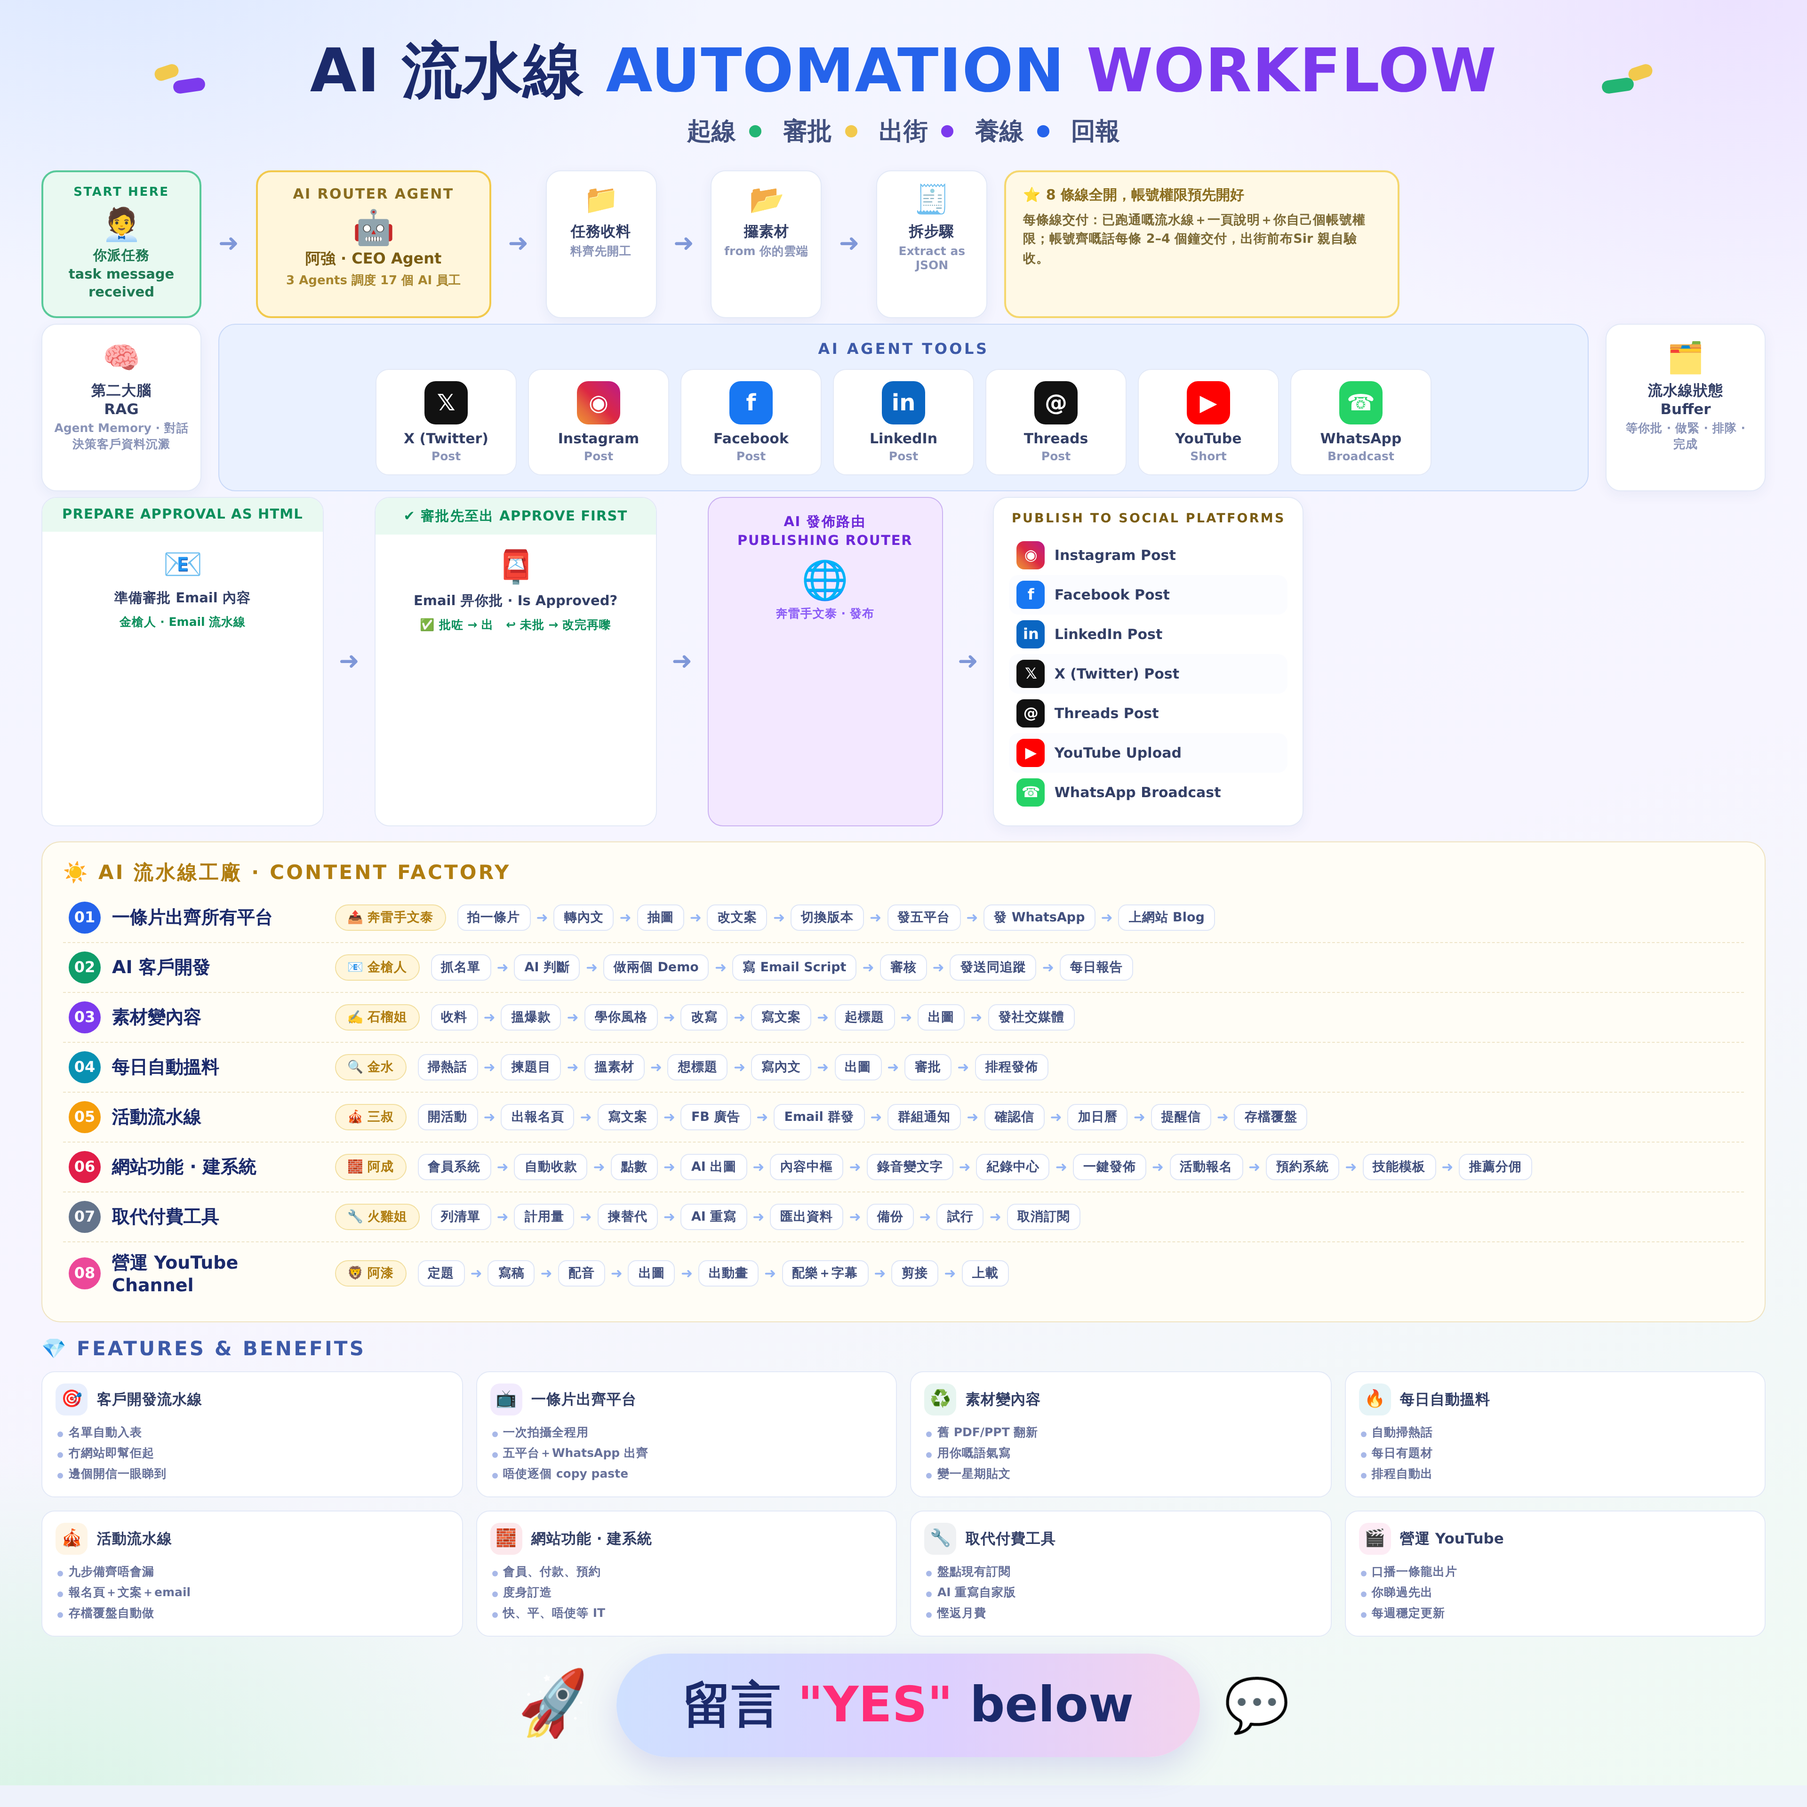
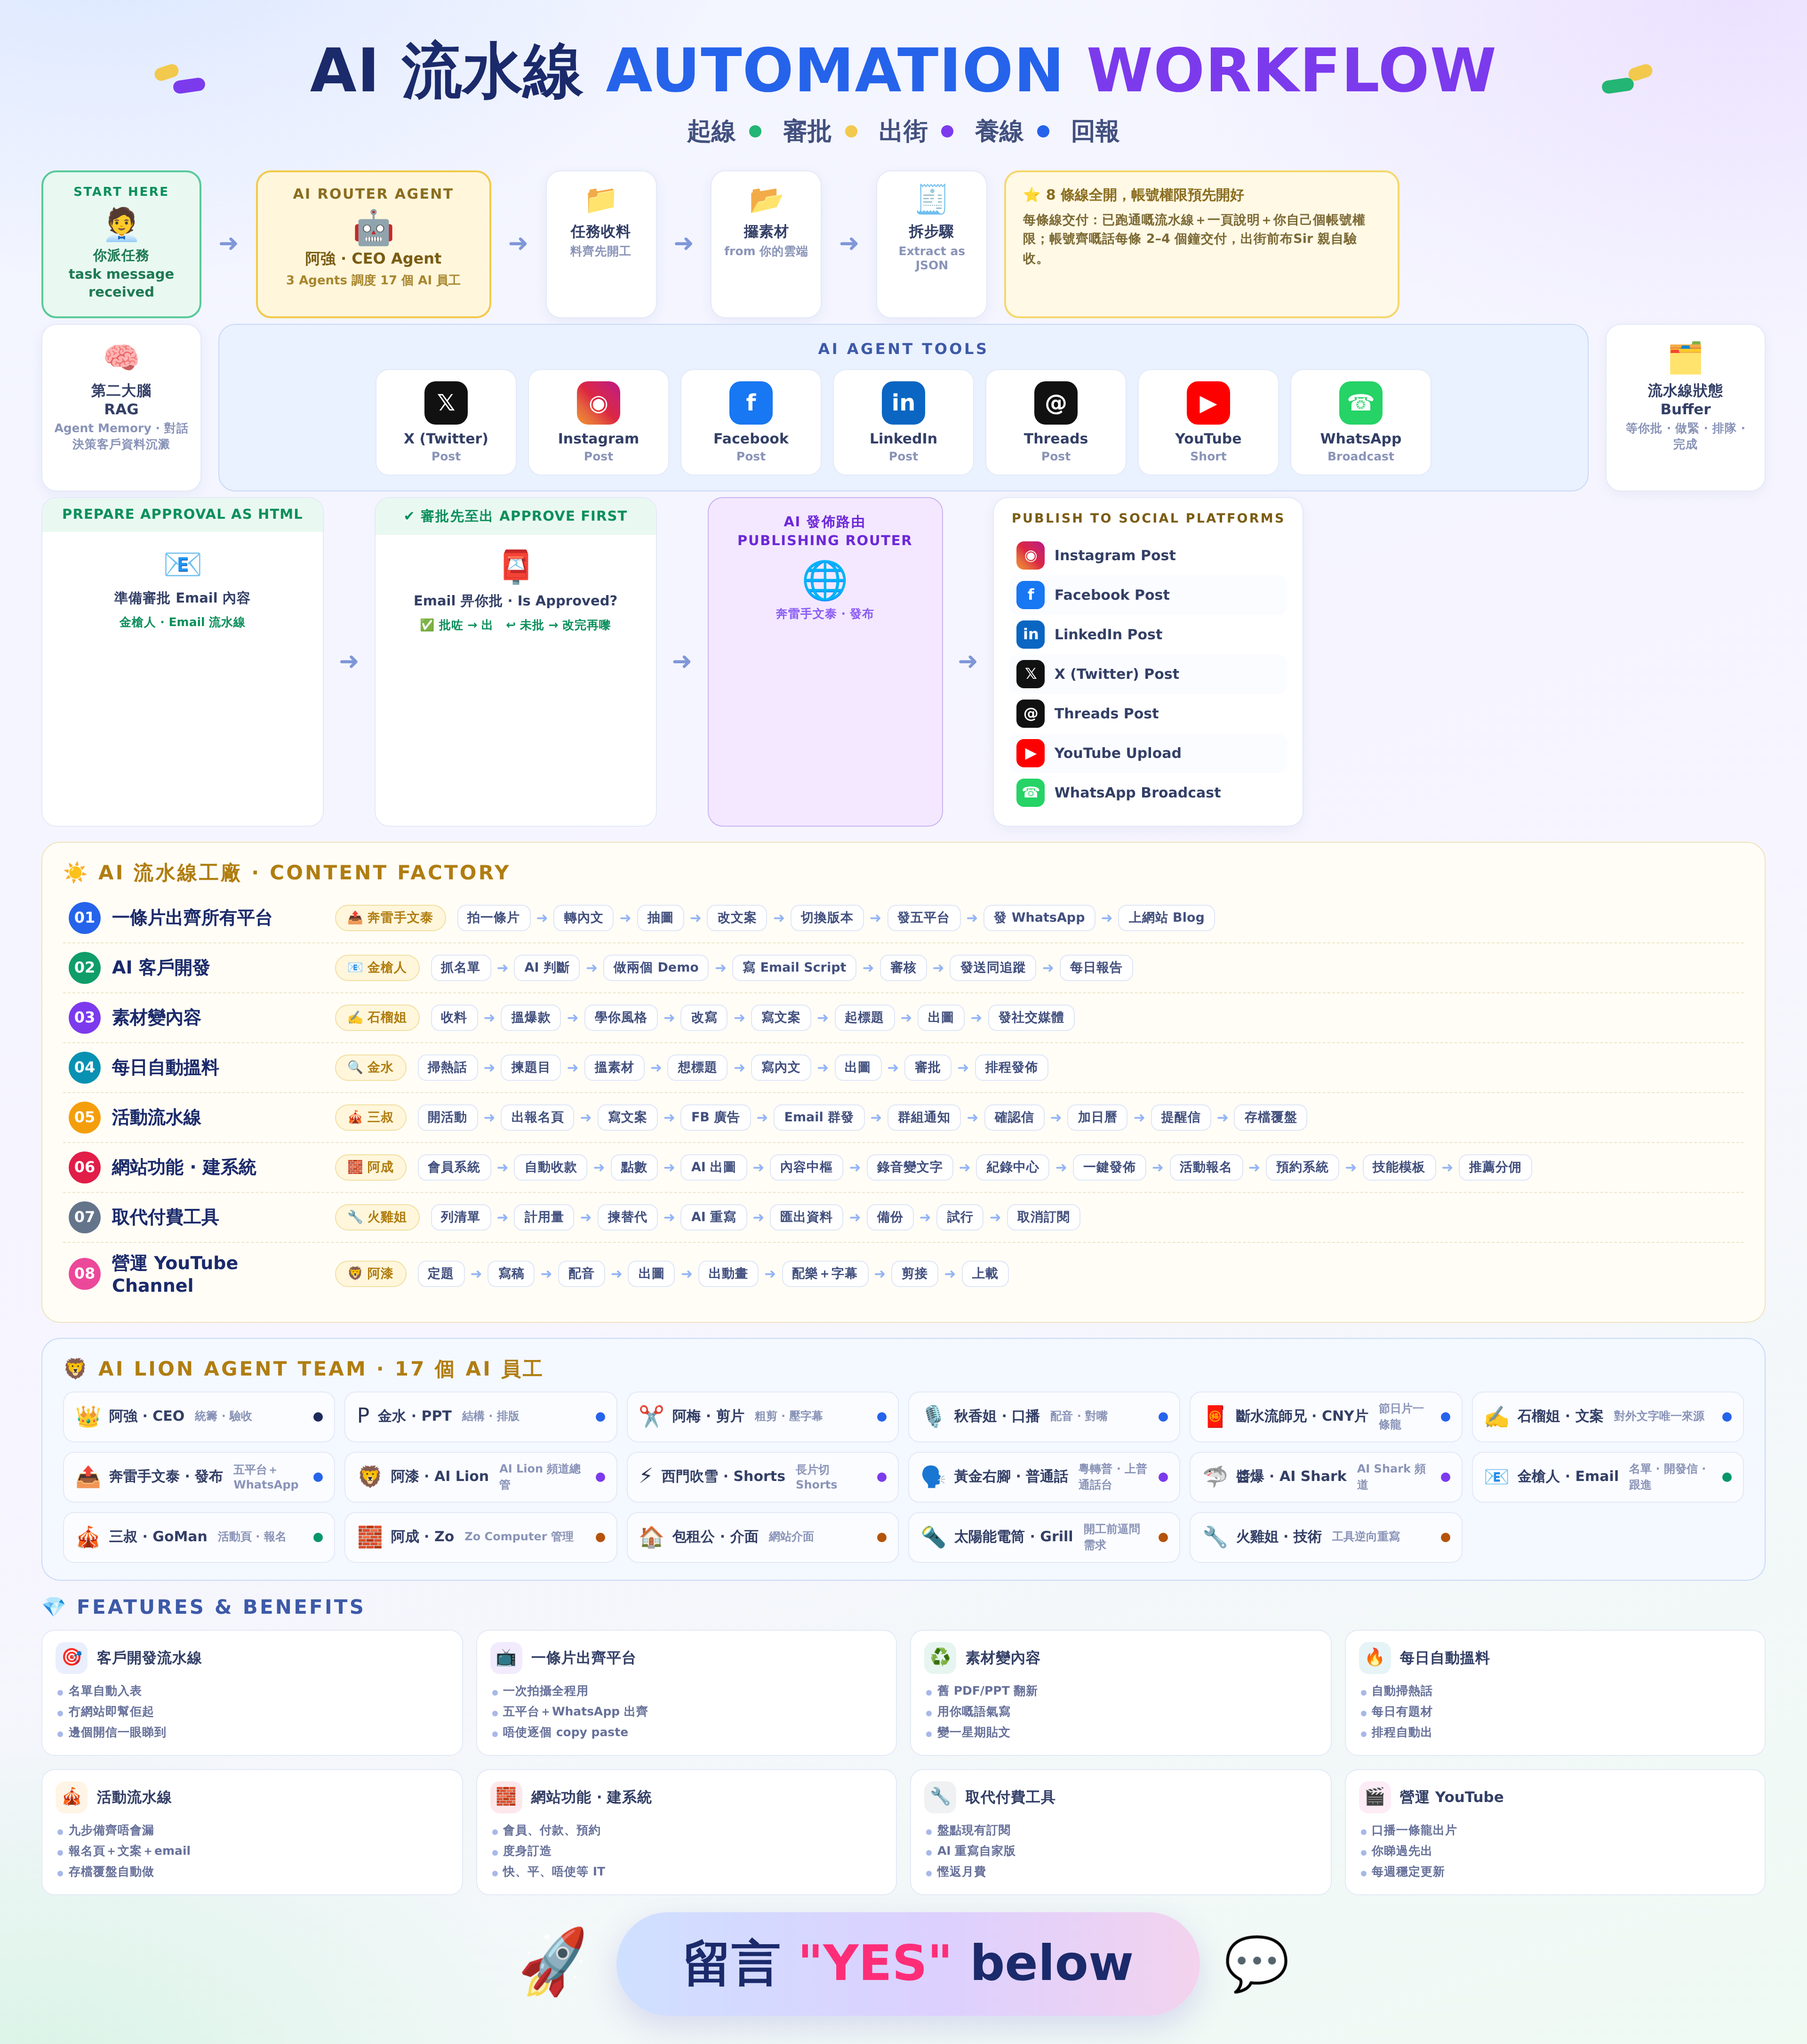
workflow-board：加 AI LION AGENT TEAM 全員板（17 員工＋職能＋部門色點）

diff --git a/flow-boards/workflow-board.html b/flow-boards/workflow-board.html
@@ -60,6 +60,11 @@ h1 .a{color:var(--navy)}h1 .b{color:var(--blue)}h1 .c{color:var(--purple)}
 .tcard{background:#fff;border:1.6px solid var(--line);border-radius:14px;width:150px;padding:12px 8px;text-align:center}
 .tcard .bi{width:46px;height:46px;border-radius:12px;margin:0 auto 6px;display:flex;align-items:center;justify-content:center;color:#fff;font-size:24px;font-weight:900}
 .tcard .t{font-size:15px;font-weight:900;color:#333f66}
+.tgrid{display:grid;grid-template-columns:repeat(6,1fr);gap:10px;margin-top:10px}
+.emp{display:flex;align-items:center;gap:9px;background:#fbfcff;border:1.4px solid var(--line);border-radius:12px;padding:9px 12px}
+.emp .em{font-size:22px}.emp .n{font-size:15px;font-weight:900;color:#333f66;white-space:nowrap}
+.emp .r{font-size:12px;font-weight:700;color:#8a94b8;margin-left:2px}
+.emp .d{width:10px;height:10px;border-radius:50%;margin-left:auto;flex:0 0 auto}
 .tcard .s{font-size:12.5px;font-weight:700;color:#8a94b8;margin-top:2px}
 .memcard{width:170px;text-align:center;padding:16px 12px;flex:0 0 auto}
 .memcard .ic{font-size:32px}
@@ -209,6 +214,12 @@ h1 .a{color:var(--navy)}h1 .b{color:var(--blue)}h1 .c{color:var(--purple)}
     <div id="lanes" style="margin-top:8px"></div>
   </div>
 
+  <!-- ══ team ══ -->
+  <div class="factory" style="background:#f4f8ff;border-color:#c9d9f8">
+    <div class="h">🦁 AI LION AGENT TEAM · 17 個 AI 員工</div>
+    <div class="tgrid" id="team"></div>
+  </div>
+
   <!-- ══ features ══ -->
   <div class="features">
     <div class="h">💎 FEATURES &amp; BENEFITS</div>
@@ -276,6 +287,16 @@ const FEATS = [
 document.getElementById("feats").innerHTML = FEATS.map(([c,e,t,pts])=>{
   return `<div class="fcard"><div class="fh"><span class="fi" style="background:${c}1a;color:${c}">${e}</span>${t}</div><ul>${pts.map(p=>`<li>${p}</li>`).join("")}</ul></div>`;
 }).join("");
+const TEAM=[
+ ["👑","阿強 · CEO","統籌 · 驗收","#1e2a5a"],["P","金水 · PPT","結構 · 排版","#2563eb"],["✂","阿梅 · 剪片","粗剪 · 壓字幕","#2563eb"],
+ ["🎙","秋香姐 · 口播","配音 · 對嘴","#2563eb"],["🧧","斷水流師兄 · CNY片","節日片一條龍","#2563eb"],["✍","石榴姐 · 文案","對外文字唯一來源","#2563eb"],
+ ["📤","奔雷手文泰 · 發布","五平台＋WhatsApp","#2563eb"],["🦁","阿漆 · AI Lion","AI Lion 頻道總管","#7c3aed"],["⚡","西門吹雪 · Shorts","長片切 Shorts","#7c3aed"],
+ ["🗣","黃金右腳 · 普通話","粵轉普 · 上普通話台","#7c3aed"],["🦈","醬爆 · AI Shark","AI Shark 頻道","#7c3aed"],["📧","金槍人 · Email","名單 · 開發信 · 跟進","#059669"],
+ ["🎪","三叔 · GoMan","活動頁 · 報名","#059669"],["🧱","阿成 · Zo","Zo Computer 管理","#b45309"],["🏠","包租公 · 介面","網站介面","#b45309"],
+ ["🔦","太陽能電筒 · Grill","開工前逼問需求","#b45309"],["🔧","火雞姐 · 技術","工具逆向重寫","#b45309"]
+];
+document.getElementById('team').innerHTML = TEAM.map(([ie,n,r,c])=>
+ `<div class="emp"><span class="em">${ie}</span><span class="n">${n}</span><span class="r">${r}</span><span class="d" style="background:${c}"></span></div>`).join('');
 </script>
 </body>
 </html>
